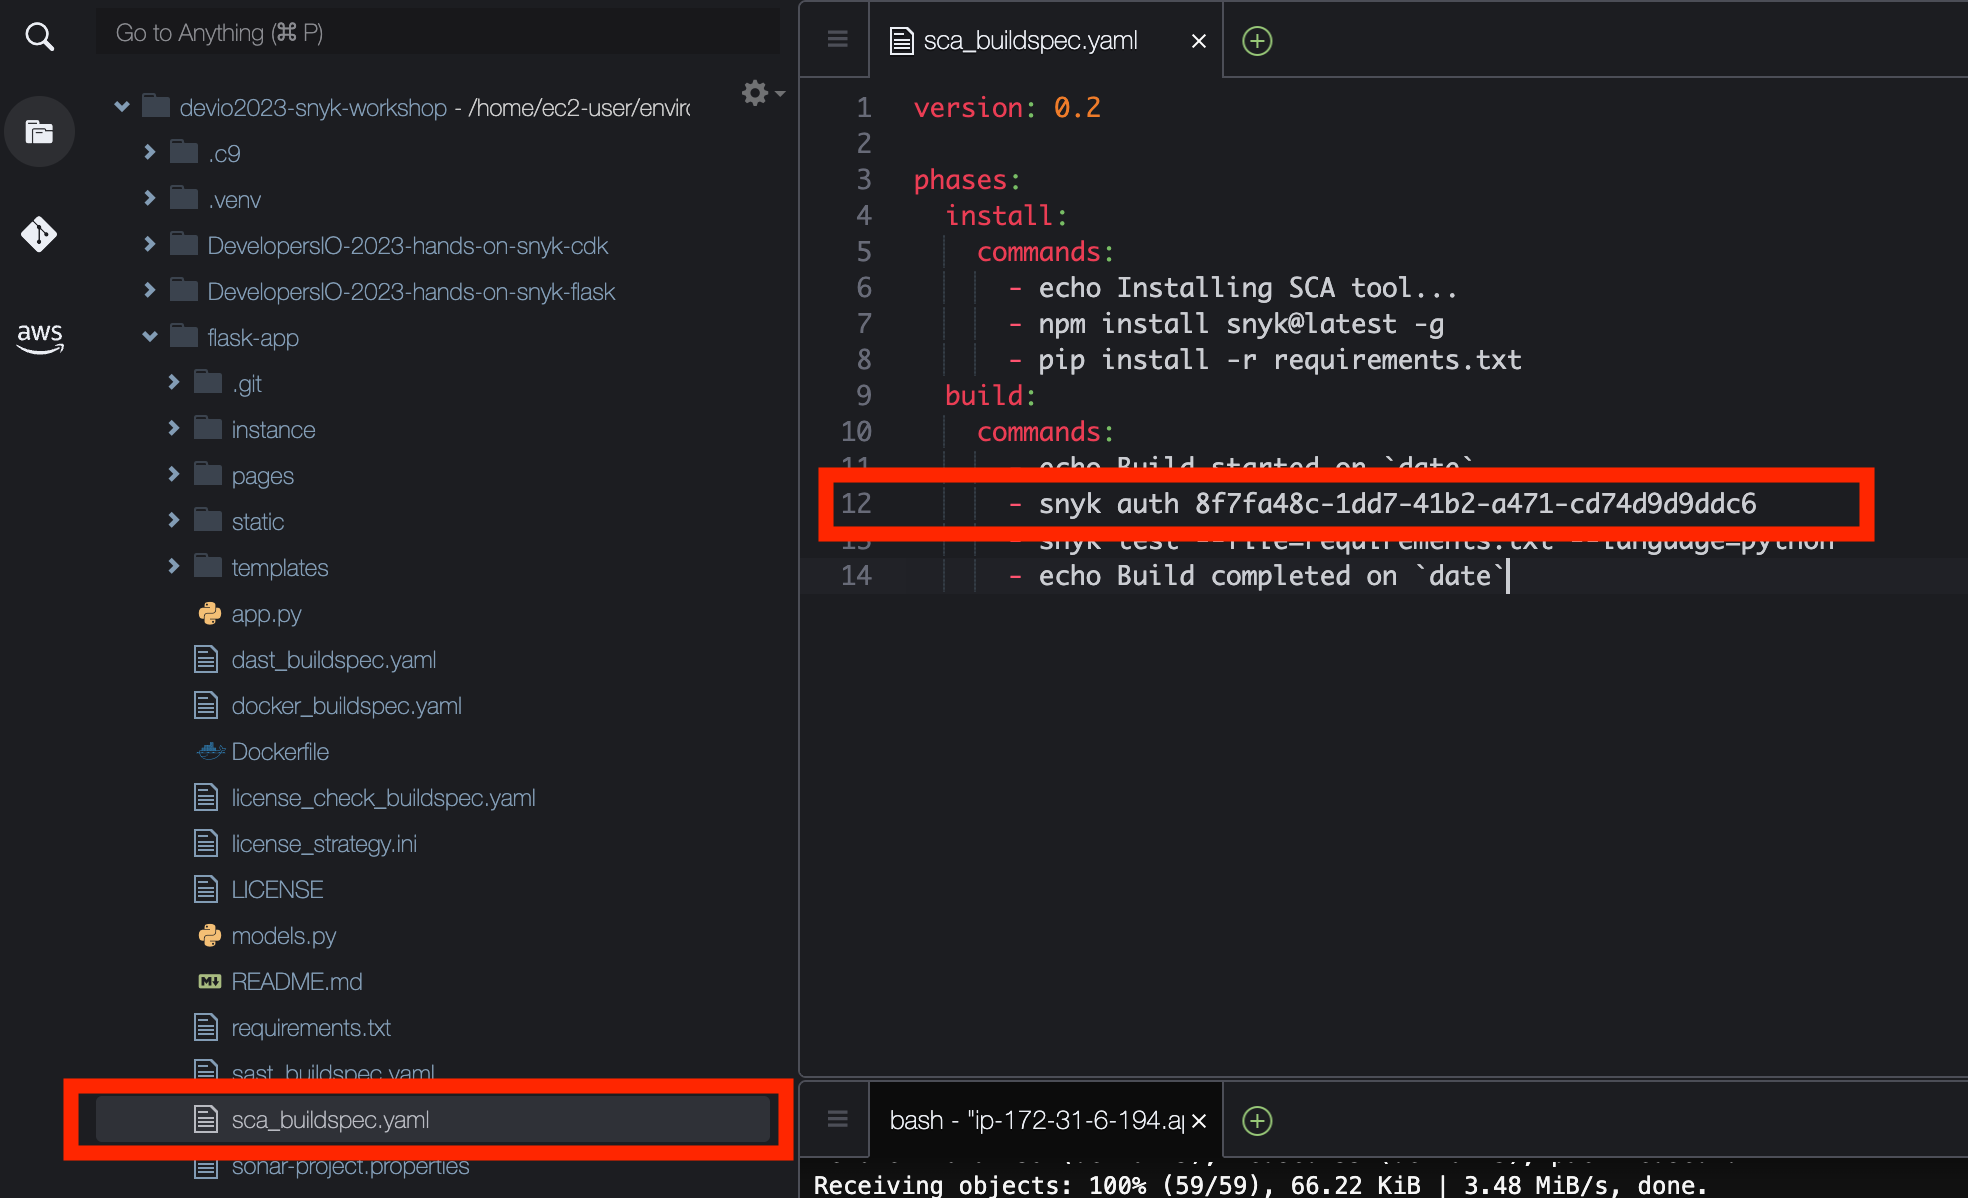
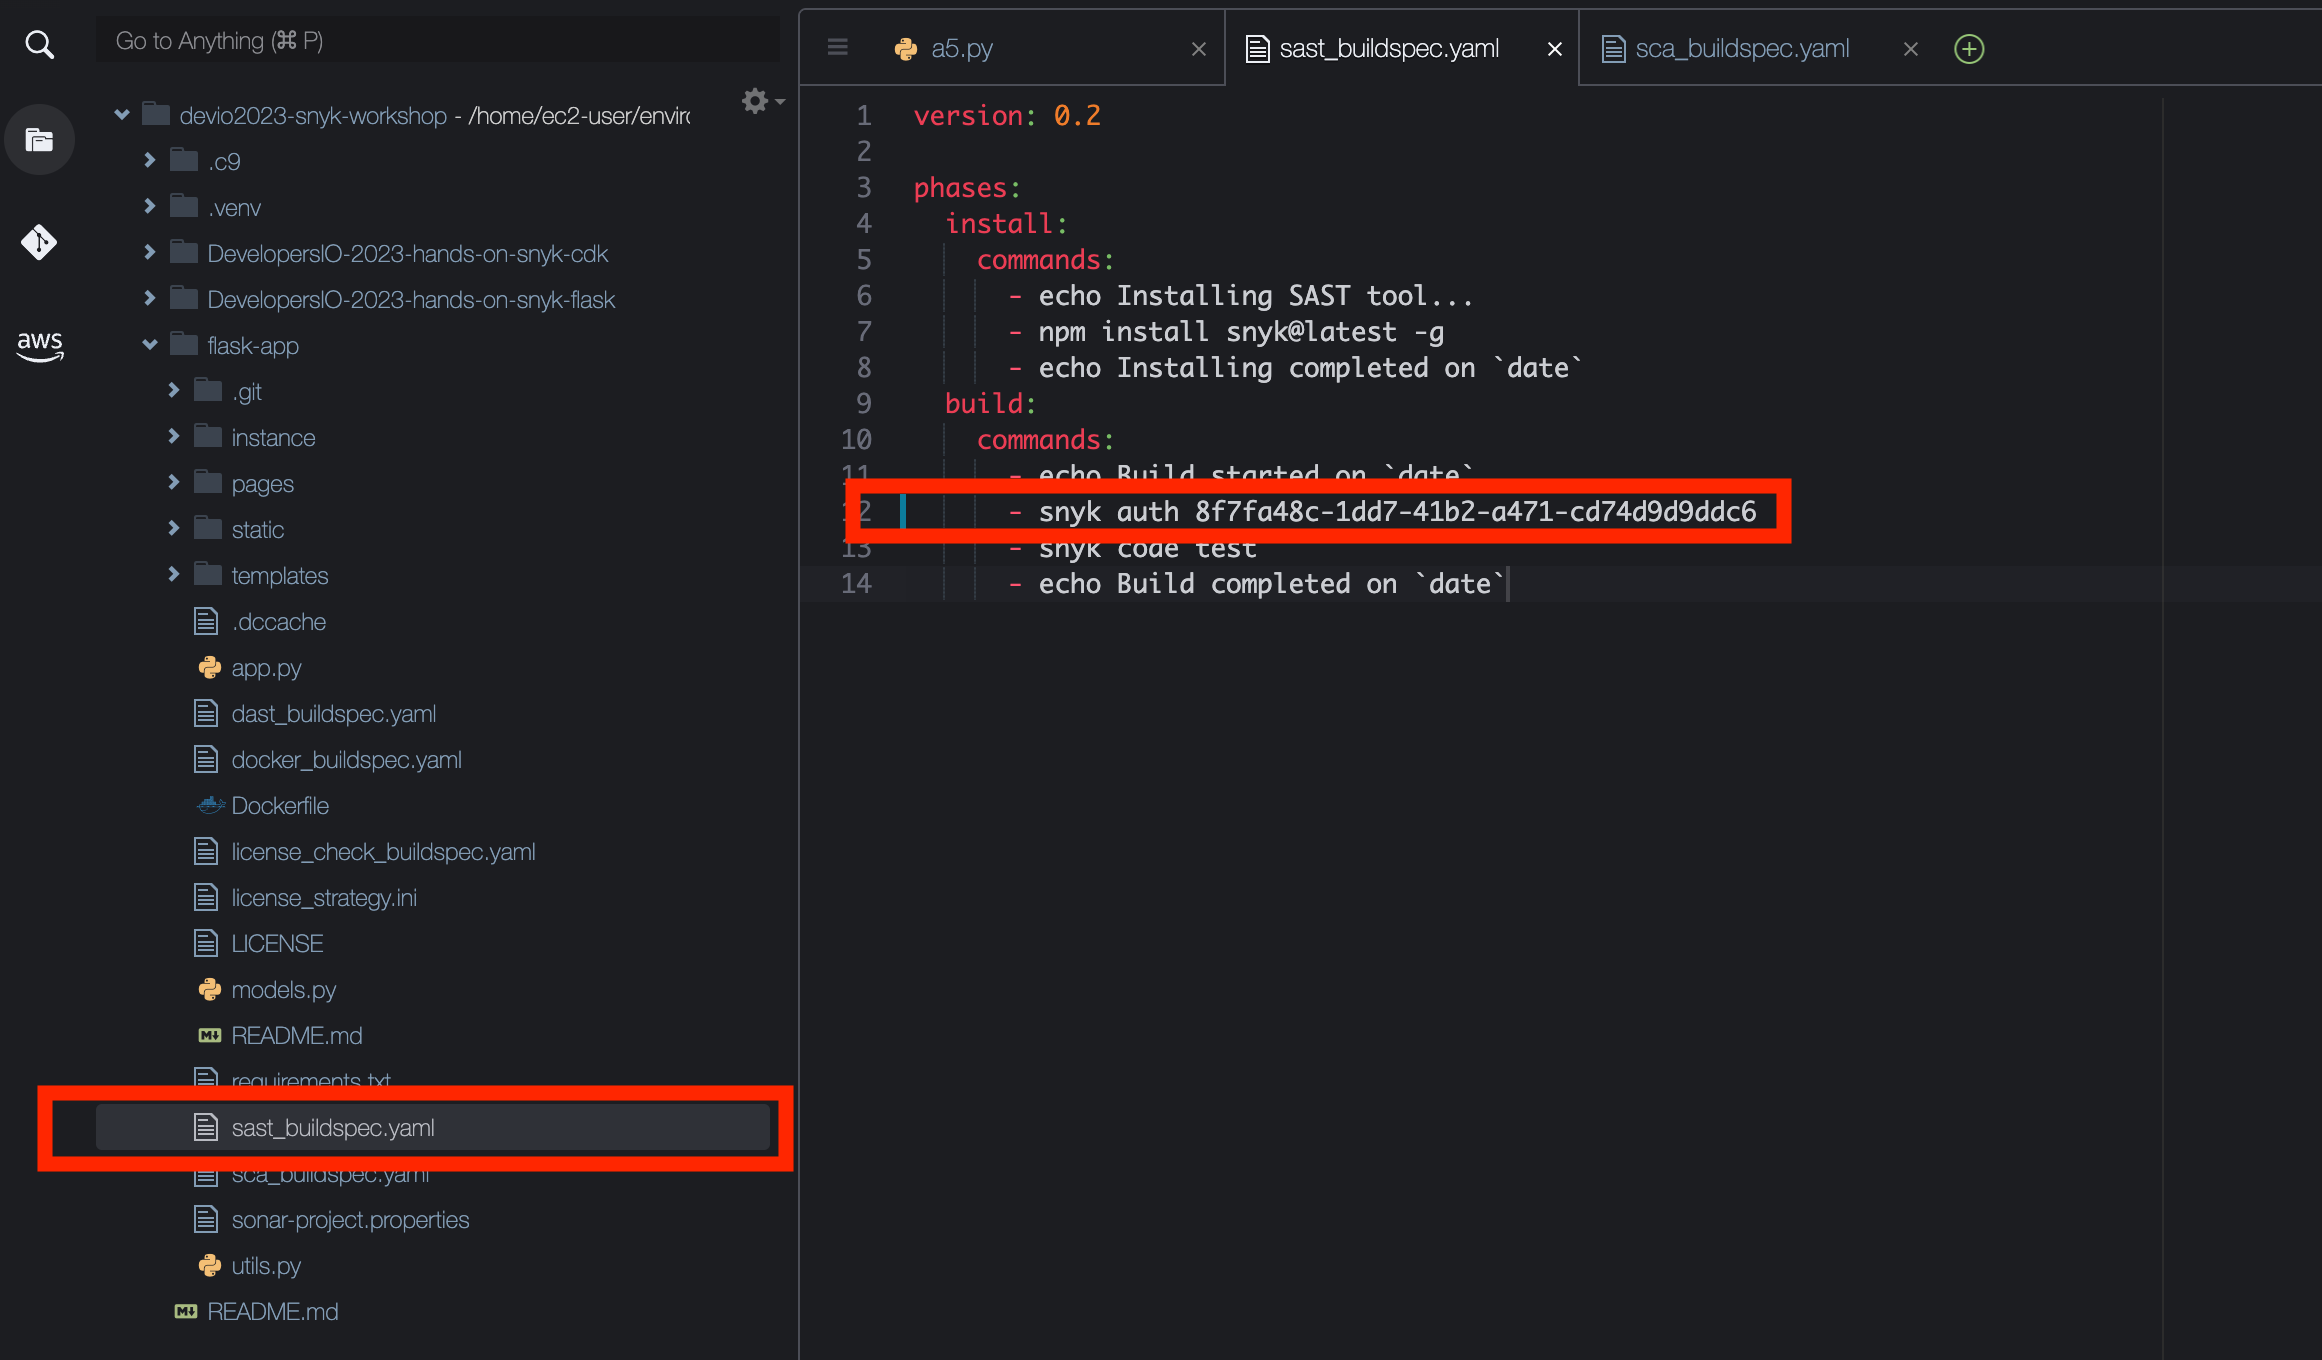
new file:   content/module5/set-up-snyk-token.md

diff --git a/content/module4/seed-repository.md b/content/module4/seed-repository.md
@@ -11,7 +11,7 @@ git clone codecommit://flask-app
 
 2\. ***You appear to have cloned an empty repository*** という警告は無視してください。このあとリポジトリにコードを登録する必要があります。
 
-<img src="./../../static/images/module3/01-01-seed-repository.png" width=100%>
+<img src="./../../static/images/module4/01-01-seed-repository.png" width=100%>
 
 3\. ウェブアプリケーションのコードを Cloud9 環境にダウンロードするには、ターミナルウィンドウに次のコマンドを入力します。
 
@@ -22,13 +22,13 @@ cp -pR ~/environment/DevelopersIO-2023-hands-on-snyk-flask/flask-app/* ~/environ
 cd ~/environment/flask-app
 ```
 
-4\. CI に Snyk を組み込みます。 **flask-app/sca_buildspec.yaml** の 12 行目を編集し、 Snyk Token を貼り付けます。
+4\. CI に Snyk を組み込みます。 **flask-app/sast_buildspec.yaml** の 12 行目を編集し、 Snyk Token を貼り付けます。
 
 > **Warning**
 >
 > ワークショップの便宜上、ハードコーディングを行なっていますが、実際の商用環境で Snyk のトークンを利用する際は、ハードコーディングを避け、Systems Manager や Secrets Manager に保管するように設定してください。
 
-<img src="./../../static/images/module3/03-01-seed-repository.png" width=100%>
+<img src="./../../static/images/module4/03-01-seed-repository.png" width=100%>
 
 5\. Web アプリケーションのコードが手に入ったので、あとは Git リポジトリに公開するだけです。しかし、その前に Git に自己紹介をしましょう。これは、 Git が匿名であることを警告するのを防ぐためです。
 
@@ -47,19 +47,19 @@ git push
 
 7\. CodeCommit にプッシュされたかを確認してみましょう。 AWS CodeCommit のダッシュボードで、 リポジトリのリストから **flask-app** を選択します。リポジトリが空でなくなっていることが確認できます。
 
-<img src="./../../static/images/module3/03-02-seed-repository.png" width=100%>
+<img src="./../../static/images/module4/03-02-seed-repository.png" width=100%>
 
 8\. AWS CodePipeline のダッシュボードにも入ってみると、 **devsecops-pipeline** は、 git push をしたときに自動的にトリガーされています。
 
-<img src="./../../static/images/module3/03-03-seed-repository.png" width=100%>
+<img src="./../../static/images/module4/03-03-seed-repository.png" width=100%>
 
 9\. パイプラインが SAST ステップを終了するまで、少し時間をおいてください。他のアプリケーションセキュリティチェック（SCA）も実行され、最終的に失敗することに気づくかもしれませんが、次のセクションでその発見に対処します。また、SAST CodeBuild ステージの進行状況は、以下の **詳細** リンクをクリックすることで確認することができます。
 
-<img src="./../../static/images/module3/03-04-seed-repository.png" width=100%>
+<img src="./../../static/images/module4/03-04-seed-repository.png" width=100%>
 
 10\. SAST の実行が成功したら、 手順 9 の詳細リンクから CodeBuild のビルドログを確認してみましょう。以下の添付画像の場合、 7 件のイシューが発生していることがわかります。
 
-<img src="./../../static/images/module3/03-05-seed-repository.png" width=100%>
+<img src="./../../static/images/module4/03-05-seed-repository.png" width=100%>
 
 コードを変更する前に、次のモジュールに移って、Webアプリケーションのコードベースがどのように構成されているかを少し説明しましょう。
 

diff --git a/content/module5/set-up-snyk-token.md b/content/module5/set-up-snyk-token.md
@@ -1,0 +1,20 @@
+# Snyk Token のセットアップ
+
+CI （ CodeBuild ）に Snyk OSS を組み込むために、 トークンを設定します。
+
+1\. CI に Snyk OSS を組み込みます。 **flask-app/sca_buildspec.yaml** の 13 行目を編集し、 Snyk Token を貼り付けます。
+
+<img src="./../../static/images/module5/01-01-set-up-snyk-token.png" width=100%>
+
+> **Warning**
+>
+> ワークショップの便宜上、ハードコーディングを行なっていますが、実際の商用環境で Snyk のトークンを利用する際は、ハードコーディングを避け、Systems Manager や Secrets Manager に保管するように設定してください。
+
+2\. 変更をローカルリポジトリにコミットしておきましょう。
+
+```bash
+cd ~/environment/flask-app
+git commit -a -m "Setting up SCA BuildSpec"
+```
+
+[Next: 依存関係のチェック]("./check-the-dependencies.md")

diff --git a/content/module5/check-the-dependencies.md b/content/module5/check-the-dependencies.md
@@ -1,0 +1,4 @@
+# 依存関係のチェック
+
+1\. CodePipeline を見てみると、現在ウェブアプリケーションに安全でない依存関係がある可能性があるため、 SCA ステージが失敗していることに気付くでしょう。何が起こったのかを確認するために、 CodeBuild で表示リンクをクリックしてください。これにより、SCA ステップ専用の CodeBuild プロジェクトが開かれるはずです。
+
